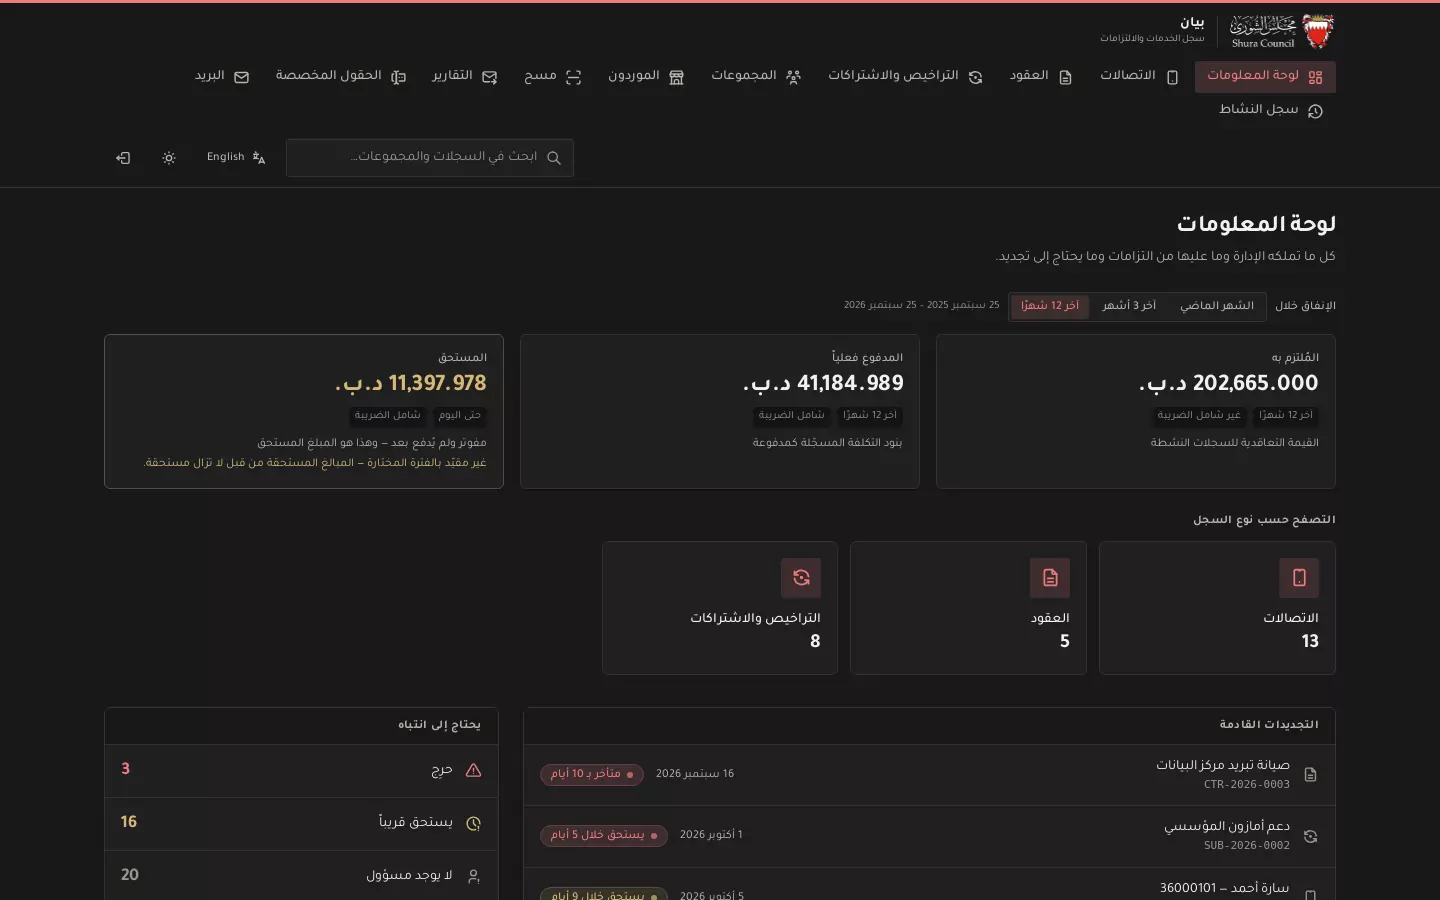
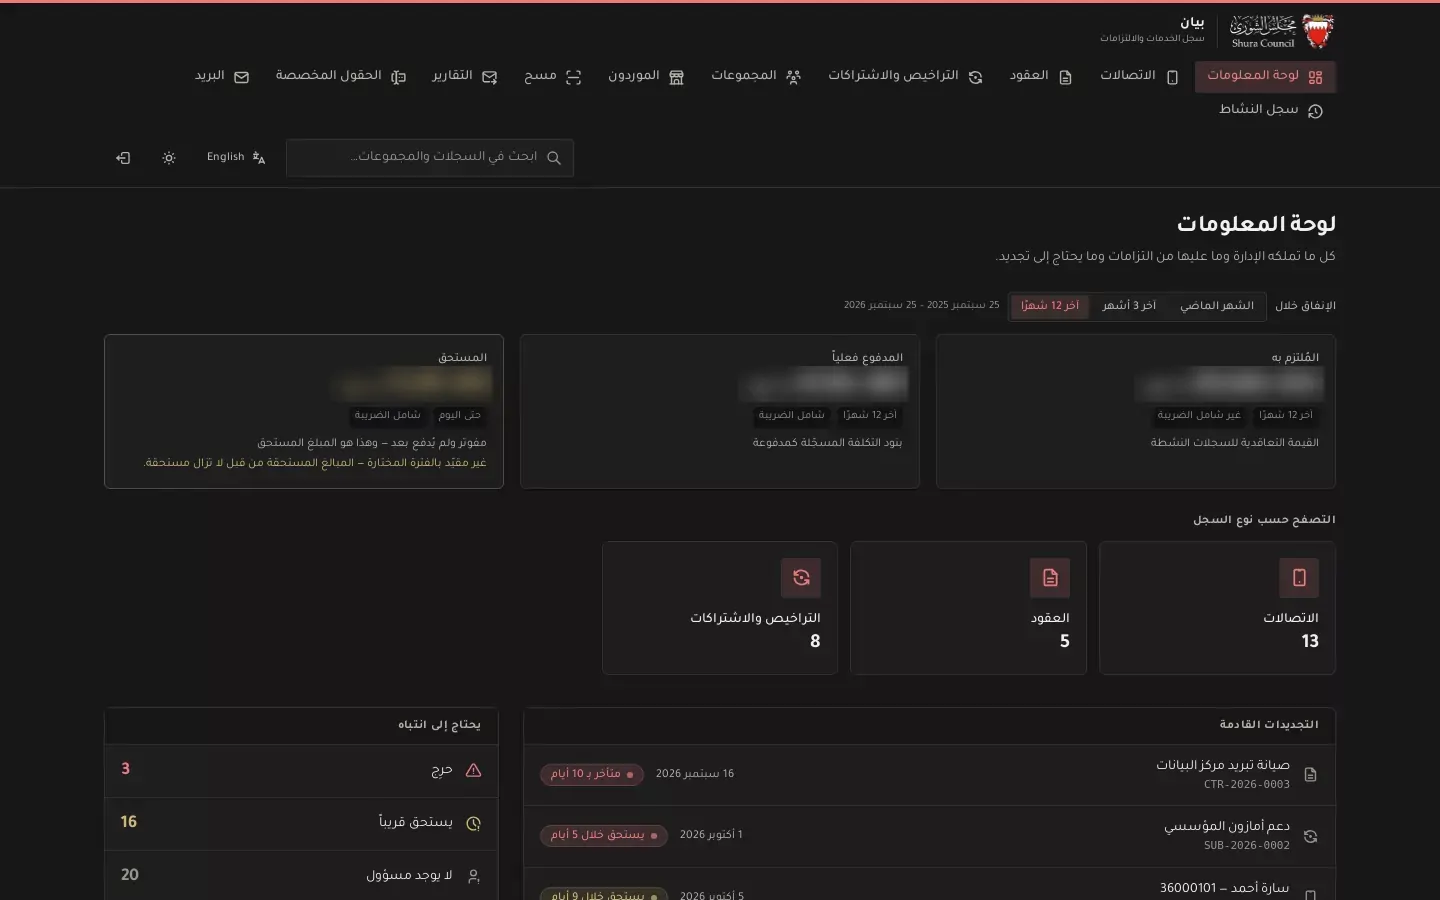
feat(bayyan): say the screens are mock data, and blur every amount
The Bayyan screenshots come from a demo copy, but the totals read like the
Council's real spend. The project dialog now says so, and every money amount
on the eight screens is blurred.

- A `notice` field on a project shows a short note under its summary in the
  dialog. Bayyan's says the screens are mock data and amounts are blurred.
- Amounts are blurred on all eight screens: dashboard totals, bill-draft
  totals, warnings and unit prices, telecom and contract costs, the record
  dialog, and the bill-source screen. Dates, counts and references stay.
- The WebPs and thumbnails were rebuilt with scripts/make-screens.mjs.

Changed region(s): [[0.7812, 0.4044, 0.9375, 0.4667], [0.5312, 0.4044, 0.6562, 0.4667], [0.25, 0.4044, 0.3438, 0.4356]]

diff --git a/src/data/projects.js b/src/data/projects.js
@@ -119,6 +119,9 @@ export const PROJECTS = [
     summary:
       'One register of everything the security department owns, owes and needs to renew, flagging each renewal before it lapses.',
     proof: ['English + Arabic, RTL', 'Bills read from PDF, traced to source', 'Piloted across 4 teams'],
+    // Shown in the dialog. The screens come from a demo copy, and every amount
+    // is blurred so nobody reads them as the Council's real spend.
+    notice: 'The screens show mock data from a demo copy, not the Council’s records. Amounts are blurred.',
     description:
       'An internal web app that gives the Shura Council’s Networks & Information Security department one register of everything it owns, owes and needs to renew: telecom lines, contracts, licences and subscriptions. Each record’s billing cycle sets its renewal date, and records move from healthy to due soon to critical as that date approaches, with email reminders and monthly, quarterly and yearly summaries going to the people who need them. The provider’s monthly bills are read straight from their PDFs into an approval sheet: a charge for a number the registry doesn’t know is flagged before anything is applied, and every amount links back to the line on the bill it was read from. Fully bilingual with a right-to-left Arabic layout and a dark mode, with attachments in MinIO, PDF and Excel reports through WeasyPrint and ExcelJS, and a native Linux deployment behind nginx and systemd. Piloted across Network Operations, Information Security, Infrastructure and the Service Desk.',
     tags: ['NestJS', 'Prisma', 'React', 'PostgreSQL', 'MinIO', 'nginx'],

diff --git a/src/components/ProjectBrowser.jsx b/src/components/ProjectBrowser.jsx
@@ -10,6 +10,7 @@ import {
   Folder,
   FolderOpen,
   FolderTree,
+  Info,
   LayoutGrid,
   Lock,
   PlayCircle,
@@ -415,6 +416,13 @@ function ProjectModal({ project, onClose }) {
                 <p className="mt-4 text-[15px] leading-relaxed text-text-primary/85">
                   {project.summary ?? project.description}
                 </p>
+
+                {project.notice && (
+                  <p className="mt-3 flex items-start gap-2 border-l-2 border-accent-body/60 pl-3 text-[13px] leading-relaxed text-text-muted">
+                    <Info size={14} className="mt-[3px] shrink-0" aria-hidden="true" />
+                    <span>{project.notice}</span>
+                  </p>
+                )}
 
                 <div className="mt-4 flex flex-wrap gap-1.5">
                   {project.tags.map((tag) => (
